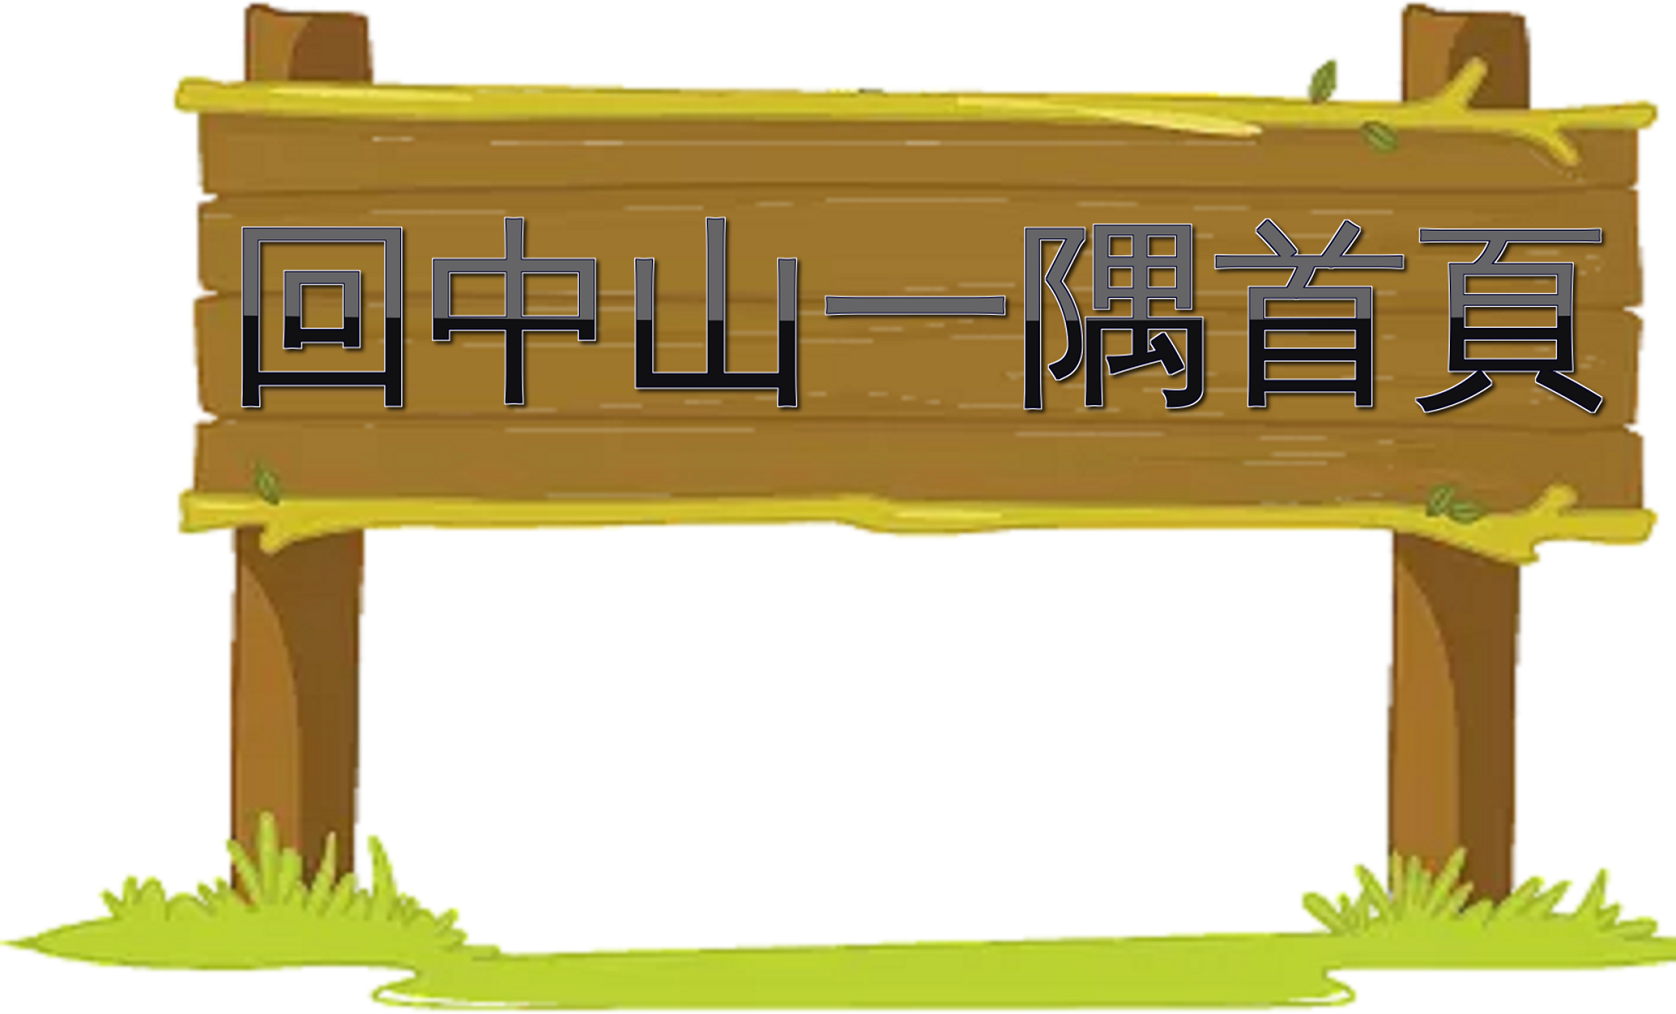
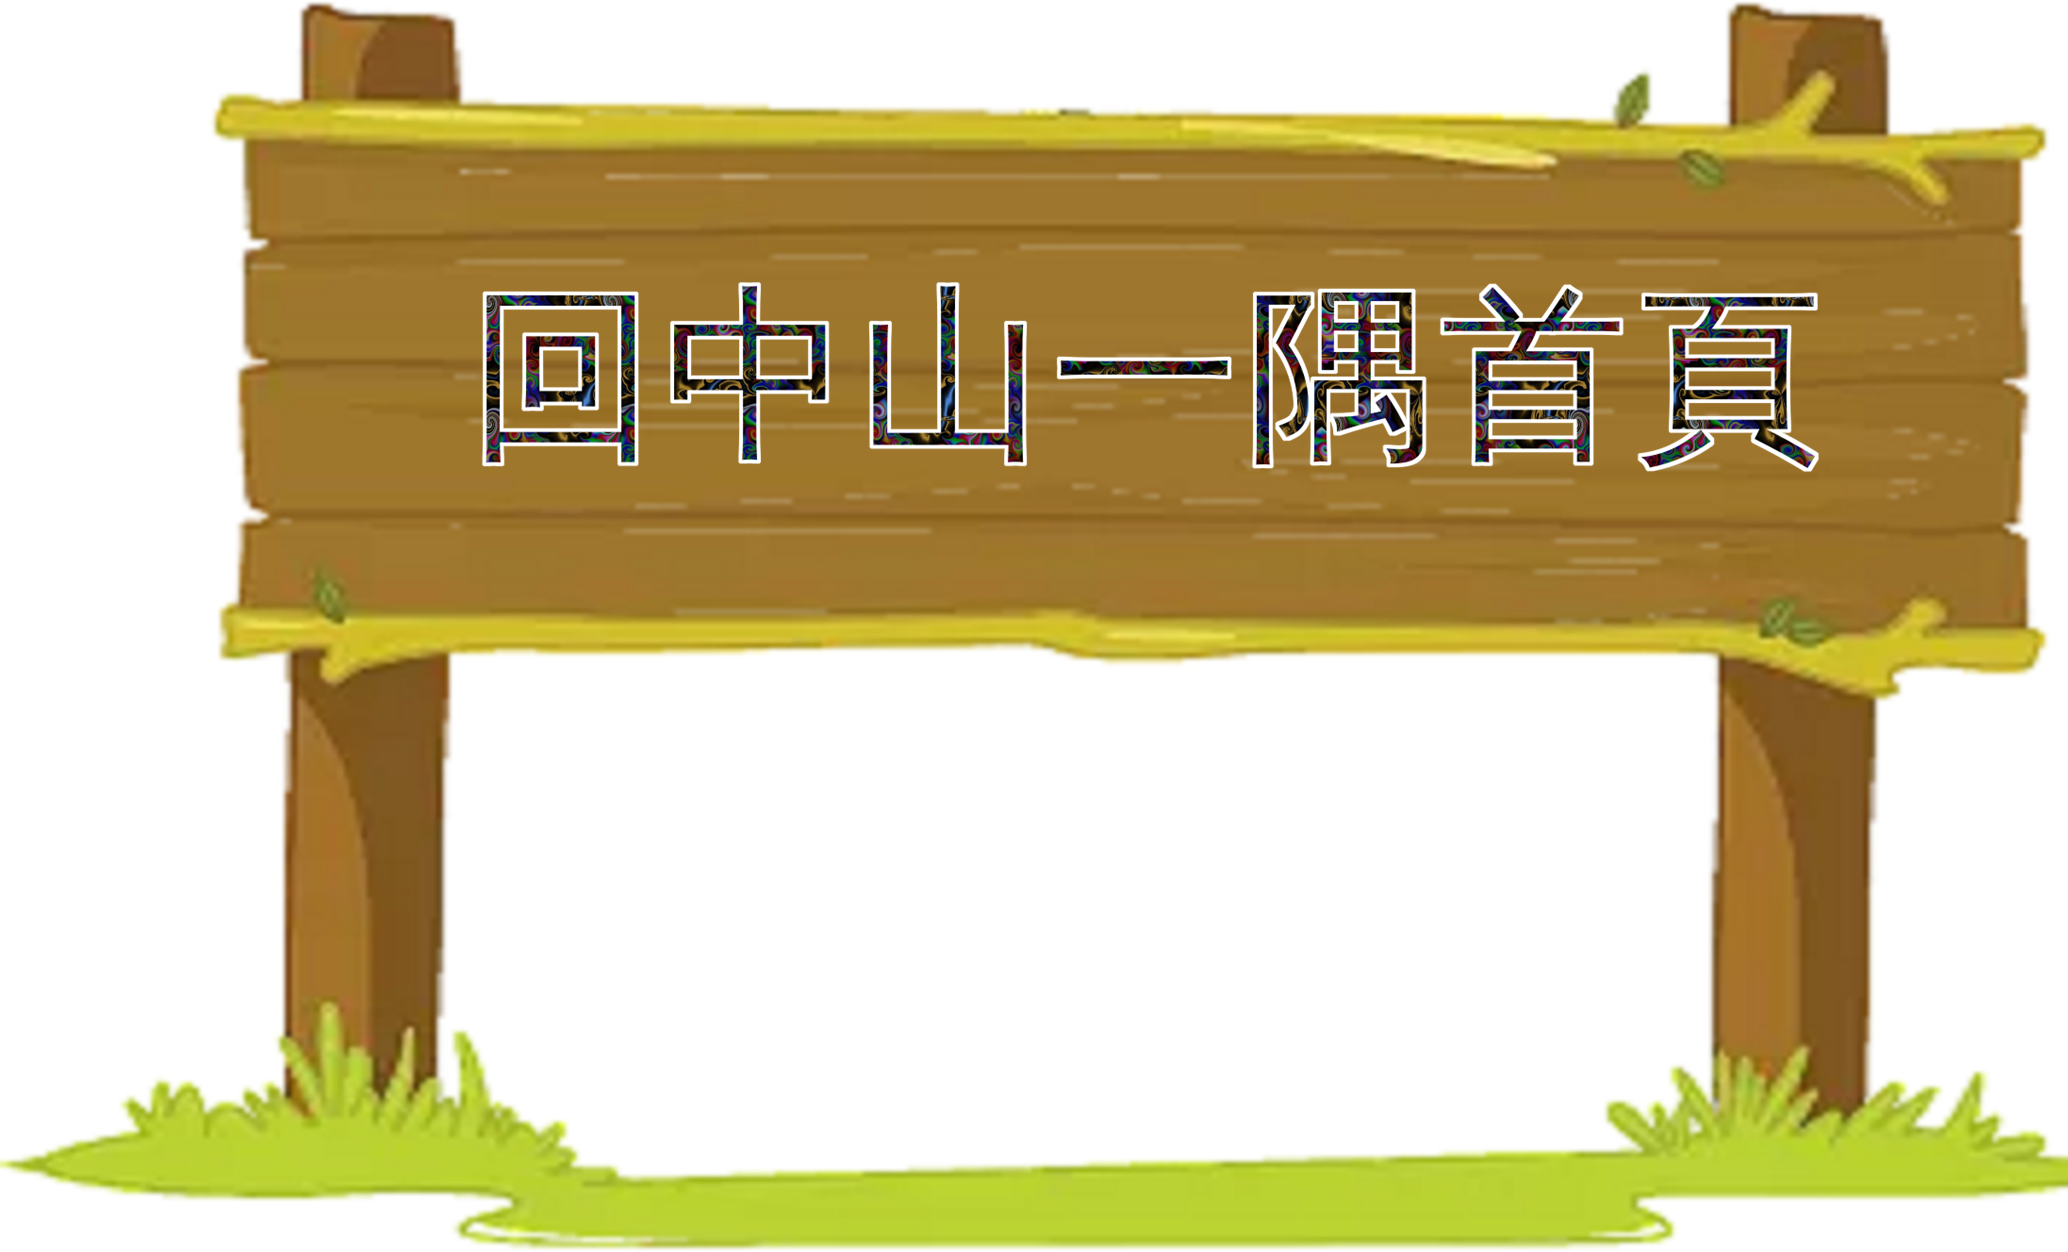
Edited at 2022/06/20

Changed region(s): [[0.1241, 0.214, 0.9618, 0.428]]

diff --git a/README.md b/README.md
@@ -1,2 +1,3 @@
 # Picture_Storer
 The place to store the pictures
+Text: https://www4.flamingtext.com/logo/Design-Surfboard?text=%E5%9B%9E%E4%B8%AD%E5%B1%B1%E4%B8%80%E9%9A%85%E9%A6%96%E9%A0%81
